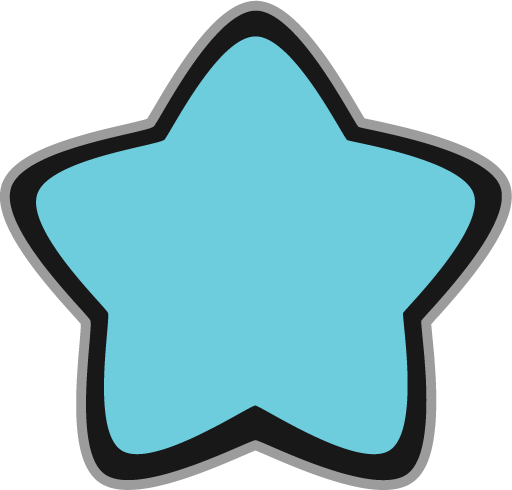
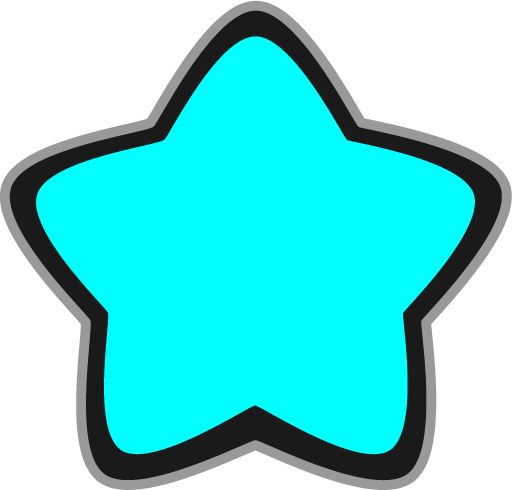
Changed star to match color more and fixed (maybe) rotation issue with touch

diff --git a/Assets/MainAssets/Code/Gesture Controls/GestureControl.cs b/Assets/MainAssets/Code/Gesture Controls/GestureControl.cs
@@ -12,6 +12,13 @@ public class GestureControl : MonoBehaviour
         {
             float rotX = 0, rotY = 0;
 
+#if UNITY_EDITOR
+            if (Input.GetMouseButton(0))
+            {
+                rotX = Input.GetAxis("Mouse X") * rotSpeed * Mathf.Deg2Rad;
+                rotY = Input.GetAxis("Mouse Y") * rotSpeed * Mathf.Deg2Rad;
+            }
+#else
             if (Input.touchCount > 0)
             {
                 rotX = (-1) * Input.touches[0].deltaPosition.x;
@@ -19,13 +26,7 @@ public class GestureControl : MonoBehaviour
 
                 rotSpeed = rotSpeed / 4;
             }
-
-            if (Input.GetMouseButton(0))
-            {
-                rotX = Input.GetAxis("Mouse X") * rotSpeed * Mathf.Deg2Rad;
-                rotY = Input.GetAxis("Mouse Y") * rotSpeed * Mathf.Deg2Rad;
-            }
-
+#endif
             Vector3 playerPos = GameController.instance.player.transform.position;
 
             GameController.instance.player.transform.Rotate(Vector3.forward, -rotX);
